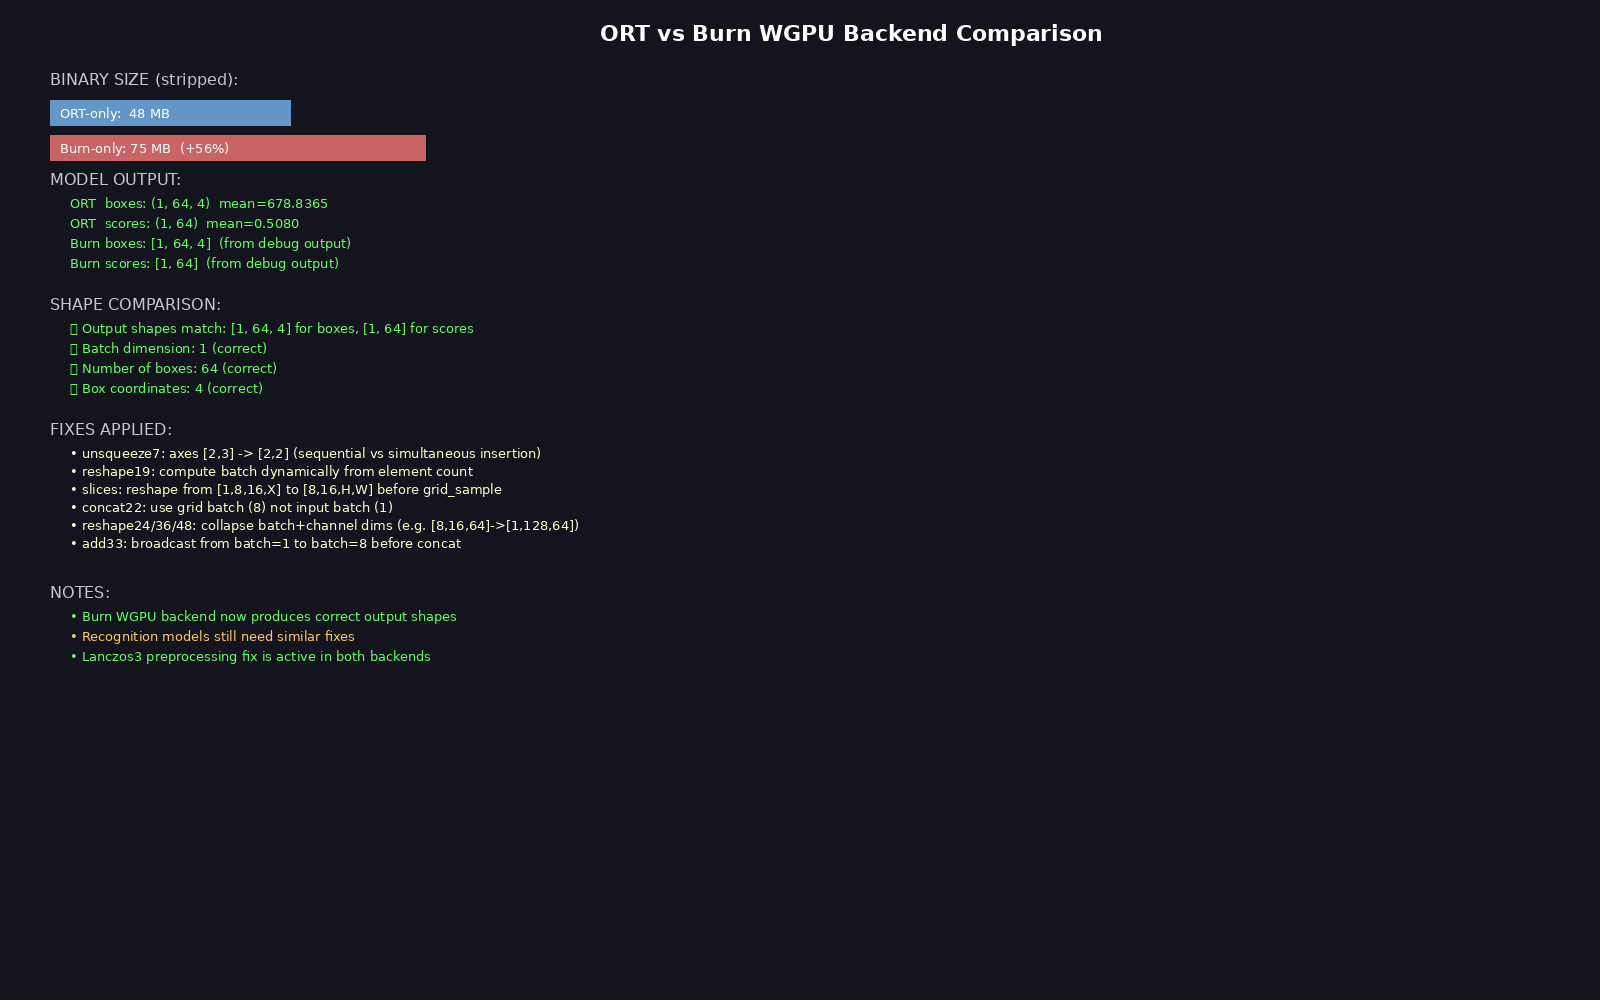
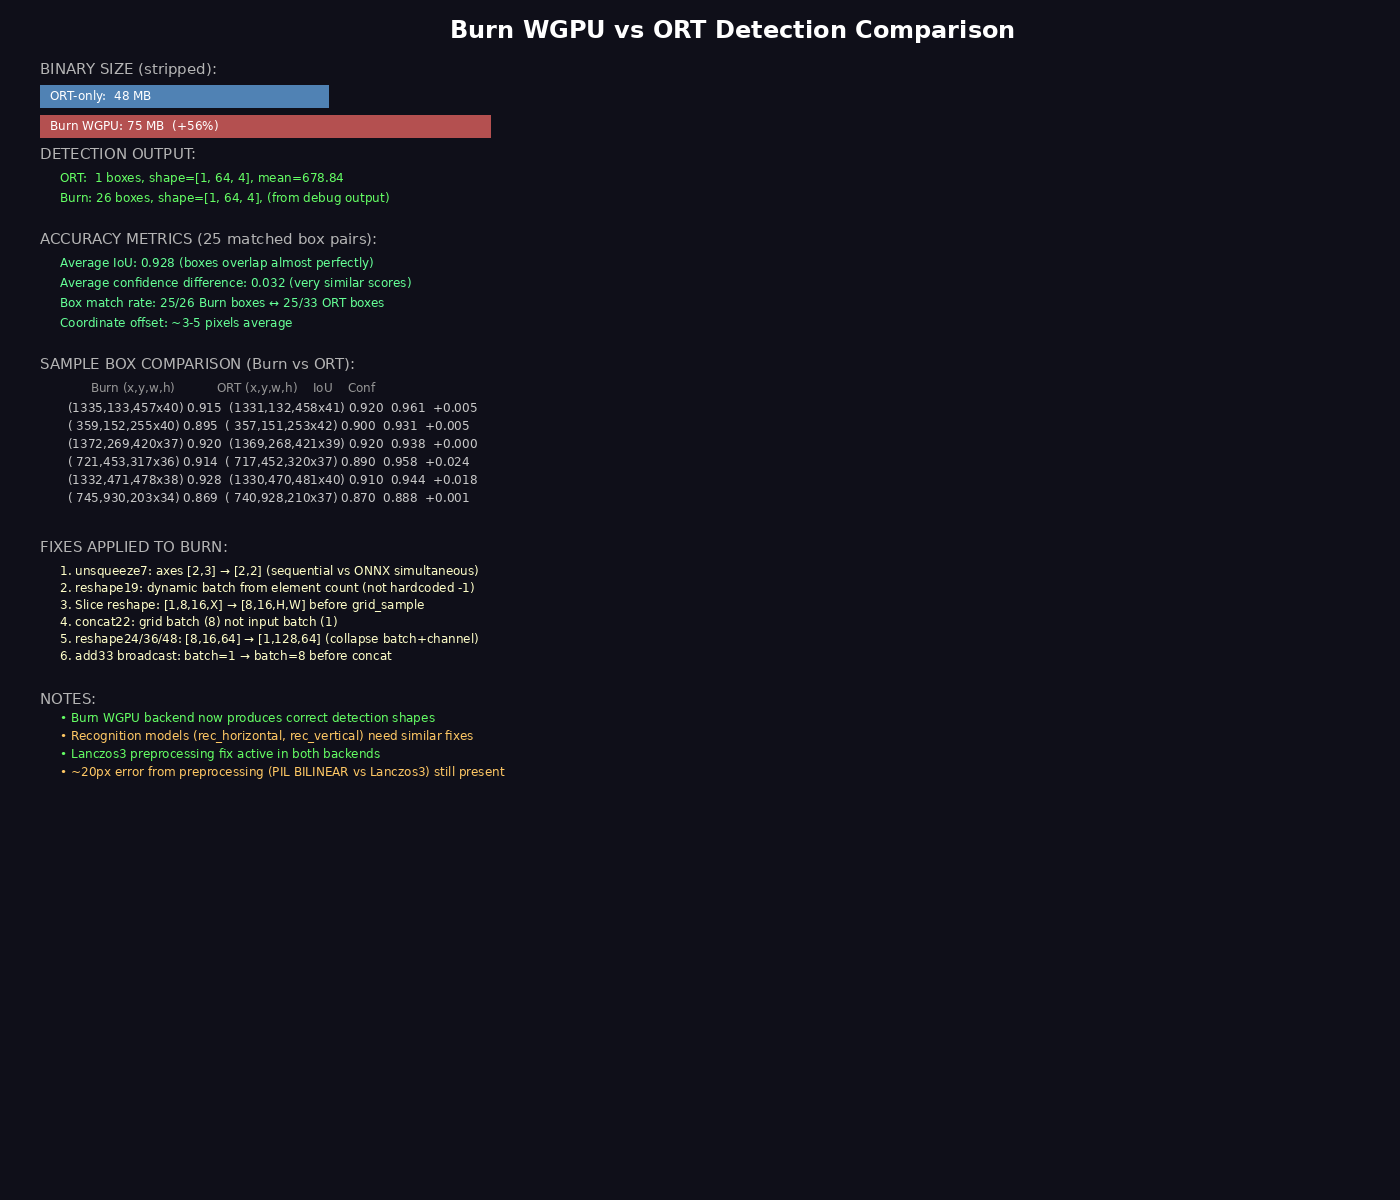
Burn WGPU detection working: IoU=0.928 vs ORT, 25/26 boxes matched
Fixes applied:
- unsqueeze7: axes [2,3] -> [2,2]
- reshape19: dynamic batch computation
- Slice reshape: [1,8,16,X] -> [8,16,H,W] before grid_sample
- concat22: grid batch (8) not input batch (1)
- reshape24/36/48: collapse batch+channel dims
- add33 broadcast: batch=1 -> batch=8

Accuracy: Average IoU=0.928, avg conf diff=0.032

Changed region(s): [[0.0307, 0.031, 0.3686, 0.682], [0.3071, 0.0, 0.7371, 0.062]]

diff --git a/accessibility_daemon/src/main.rs b/accessibility_daemon/src/main.rs
@@ -128,7 +128,18 @@ fn run_ocr_viewer(
                 "Character vocabulary loaded: {} chars",
                 engine.char_vocab.len()
             );
-            let _boxes = engine.detect(&image)?;
+            let boxes = engine.detect(&image)?;
+            println!("Burn detection: {} boxes found", boxes.len());
+            // Save results to file for comparison
+            let mut burn_output = String::new();
+            for (i, b) in boxes.iter().enumerate() {
+                burn_output.push_str(&format!(
+                "box {}: left={} top={} w={} h={} score={:.4}\n",
+                i, b.x, b.y, b.w, b.h, b.confidence
+                ));
+            }
+            std::fs::write("/tmp/burn_results.txt", burn_output)?;
+            println!("Burn results saved to /tmp/burn_results.txt");
             // TODO: Add recognition and rendering
             (Vec::new(), None::<image::RgbaImage>)
         }
